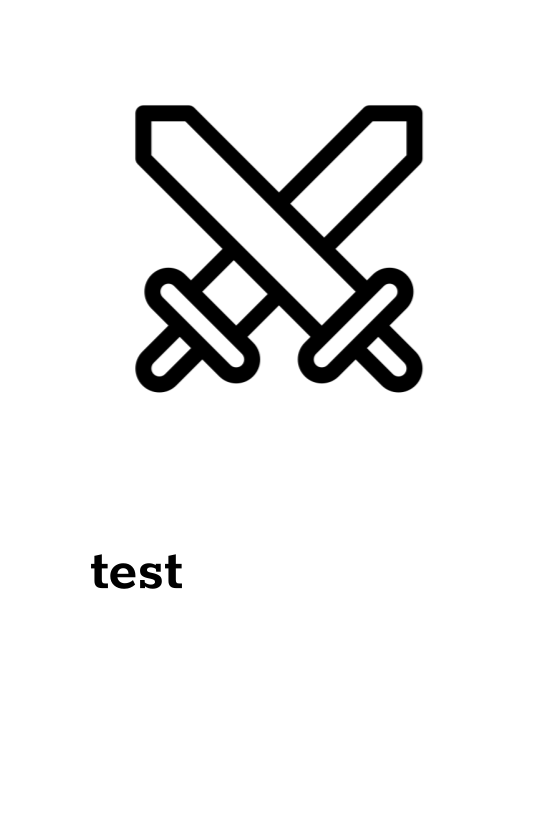
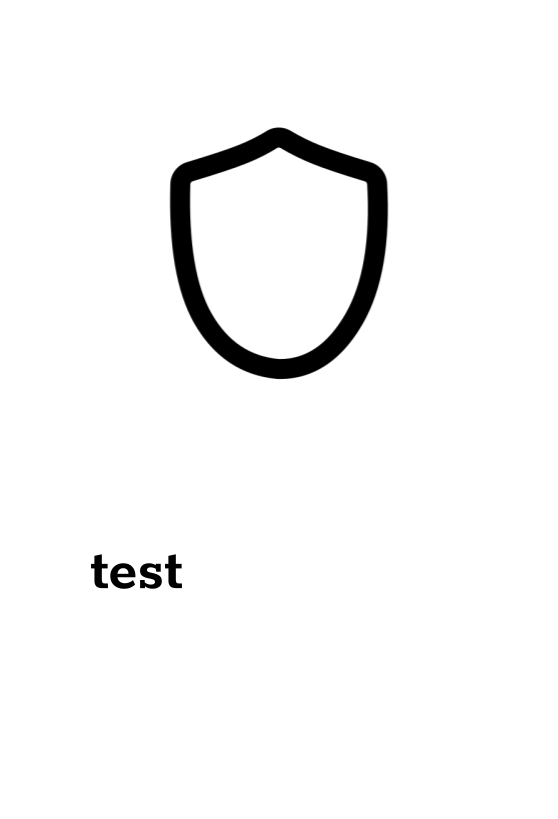
Added dice rendering.

Changed region(s): [[0.2437, 0.1221, 0.7616, 0.4884]]

diff --git a/cardistry.js b/cardistry.js
@@ -1,7 +1,7 @@
 const cvs = require("canvas");
 const fs = require("fs");
 const rnd = require("./randomizer");
-const {createCanvas} = require("canvas");
+const {createCanvas, loadImage} = require("canvas");
 
 class BoundaryRect {
     constructor(x, y, w, h) {
@@ -49,20 +49,48 @@ class BoundaryRect {
         return new BoundaryRect(this.x, this.y + h, this.w, this.h - h);
     }
 
+    cutTopPct(p) {
+        let cut = this.h * p;
+        return new BoundaryRect(this.x, this.y + cut, this.w, this.h - cut);
+    }
+
     cutBottom(h) {
         return new BoundaryRect(this.x, this.y, this.w, this.h - h);
+    }
+
+    cutBottomPct(p) {
+        let cut = this.h * p;
+        return new BoundaryRect(this.x, this.y, this.w, this.h - cut);
     }
 
     cutLeft(w) {
         return new BoundaryRect(this.x + w, this.y, this.w - w, this.h);
     }
 
+    cutLeftPct(p) {
+        let cut = this.w * p;
+        return new BoundaryRect(this.x - cut, this.y, this.w - cut, this.h);
+    }
+
     cutRight(w) {
         return new BoundaryRect(this.x, this.y, this.w - w, this.h);
     }
 
+    cutRightPct(p) {
+        let cut = this.w * p;
+        return new BoundaryRect(this.x, this.y, this.w - cut, this.h);
+    }
+
     cut(l, r, t, b) {
         return new BoundaryRect(this.x + l, this.y + t, this.w - l - r, this.h - t - b);
+    }
+
+    cutPct(lp, lr, lt, lb) {
+        let cutl = this.w * lp;
+        let cutr = this.w * lr;
+        let cutt = this.h * lt;
+        let cutb = this.h * lb;
+        return new BoundaryRect(this.x + cutl, this.y + cutt, this.w - cutl - cutr, this.h - cutt - cutb);
     }
 }
 exports.BoundaryRect = BoundaryRect;
@@ -529,6 +557,39 @@ class GridCard extends Card {
 }
 exports.GridCard = GridCard;
 
+class DieFace extends Card {
+    constructor(width, height, bleed, safe, extra, bgColor, dpi, icons) {
+        super(width, height, bleed, safe, extra, bgColor, dpi);
+
+        this.icons = icons;
+
+        if(this.icons.length == 1) {
+            this.addElement(new ImageBox(this, this.getDrawableBoundRect(), this.bgColor, icons[0], false));
+        } else if(this.icons.length == 2) {
+            this.addElement(new ImageBox(this, this.getDrawableBoundRect().cutPct(0, 0.5, 0, 0.5), this.bgColor, icons[0], false));
+            this.addElement(new ImageBox(this, this.getDrawableBoundRect().cutPct(0.5, 0, 0.5, 0), this.bgColor, icons[1], false));
+        } else if(this.icons.length == 3) {
+            this.addElement(new ImageBox(this, this.getDrawableBoundRect().cutPct(0, 0.5, 0, 0.5), this.bgColor, icons[0], false));
+            this.addElement(new ImageBox(this, this.getDrawableBoundRect().cutPct(0.5, 0, 0, 0.5), this.bgColor, icons[1], false));
+            this.addElement(new ImageBox(this, this.getDrawableBoundRect().cutPct(0.25, 0.25, 0.5, 0), this.bgColor, icons[2], false));
+        } else if(this.icons.length == 4) {
+            this.addElement(new ImageBox(this, this.getDrawableBoundRect().cutPct(0, 0.5, 0, 0.5), this.bgColor, icons[0], false));
+            this.addElement(new ImageBox(this, this.getDrawableBoundRect().cutPct(0.5, 0, 0, 0.5), this.bgColor, icons[1], false));
+            this.addElement(new ImageBox(this, this.getDrawableBoundRect().cutPct(0, 0.5, 0.5, 0), this.bgColor, icons[2], false));
+            this.addElement(new ImageBox(this, this.getDrawableBoundRect().cutPct(0.5, 0, 0.5, 0), this.bgColor, icons[3], false));
+        } else if(this.icons.length == 5) {
+            this.addElement(new ImageBox(this, this.getDrawableBoundRect().cutPct(0, 0.66, 0, 0.66), this.bgColor, icons[0], false));
+            this.addElement(new ImageBox(this, this.getDrawableBoundRect().cutPct(0.66, 0, 0, 0.66), this.bgColor, icons[1], false));
+            this.addElement(new ImageBox(this, this.getDrawableBoundRect().cutPct(0, 0.66, 0.66, 0), this.bgColor, icons[2], false));
+            this.addElement(new ImageBox(this, this.getDrawableBoundRect().cutPct(0.66, 0, 0.66, 0), this.bgColor, icons[3], false));
+            this.addElement(new ImageBox(this, this.getDrawableBoundRect().cutPct(0.33, 0.33, 0.33, 0.33), this.bgColor, icons[4], false));
+        } else {
+            // do nothing
+        }
+    }
+}
+exports.DieFace = DieFace;
+
 class Sheet {
     constructor(cards) {
         this.cards = cards;
@@ -675,3 +736,29 @@ class Showcase extends Sheet {
     }
 }
 exports.Showcase = Showcase;
+
+class ImageManager {
+    constructor() {
+        this.images = new Map();
+        this.promises = [];
+    }
+
+    loadImage(key, file) {
+        let that = this;
+        this.promises.push(new Promise(function(resolve, reject) {
+            loadImage(file).then((img) => {
+                that.images.set(key, img);
+                resolve();
+            });
+        }));
+    }
+
+    get(key) {
+        return this.images.get(key);
+    }
+
+    ready(onReady) {
+        Promise.all(this.promises).then(onReady);
+    }
+}
+exports.ImageManager = ImageManager;

diff --git a/index.js b/index.js
@@ -2,7 +2,7 @@ const cvs = require("canvas");
 const fs = require("fs");
 const rnd = require("./randomizer.js");
 const Cardistry = require('./cardistry.js');
-const {Card, BoundaryRect, GridCard, RotatedTextBox, TextBox} = require("./cardistry");
+const {Card, BoundaryRect, GridCard, RotatedTextBox, TextBox, ImageManager} = require("./cardistry");
 const {loadImage} = require("canvas");
 
 // setup the randomizer
@@ -15,7 +15,18 @@ cvs.registerFont('lib/rokkitt/static/Rokkitt-Bold.ttf', {family: 'Rokkitt Bold'}
 cvs.registerFont('lib/rokkitt/static/Rokkitt-Light.ttf', {family: 'Rokkitt Light'});
 
 // load images
-const attack_img = loadImage('assets/noun-fight-1279715.png');
+const im = new ImageManager();
+im.loadImage('attack', 'assets/noun-fight-1279715.png');
+im.loadImage('fire', 'assets/noun-fire-4798412.png');
+im.loadImage('shield', 'assets/noun-shield-3000252.png');
+im.loadImage('black-die', 'assets/noun-cube-5842799-000000.png');
+im.loadImage('green-die', 'assets/noun-cube-5842799-71D358.png');
+im.loadImage('blue-die', 'assets/noun-cube-5842799-00449F.png');
+im.loadImage('purple-die', 'assets/noun-cube-5842799-C462DD.png');
+im.loadImage('gray-die', 'assets/noun-cube-5842799-D3D3D3.png');
+im.loadImage('red-die', 'assets/noun-cube-5842799-FF001C.png');
+im.loadImage('orange-die', 'assets/noun-cube-5842799-FF824A.png');
+im.loadImage('yellow-die', 'assets/noun-cube-5842799-FFD65B.png');
 
 const card_bleed = 0.125;
 const card_safe = 0.125;
@@ -24,6 +35,8 @@ const card_width = 1.61 + card_bleed * 2;
 const card_extra = 0.05;
 const text_size = (card_height - 0.6) / 10.5;
 const text_margin = text_size * 0.23;
+const d6_width = 0.5;
+const d6_height = 0.5;
 
 class RoadWarriorItemCard extends Cardistry.Card {
     constructor(dpi, bgColor, text, img) {
@@ -53,10 +66,32 @@ class RoadWarriorItemCard extends Cardistry.Card {
     }
 }
 
+class RoadWarriorDie extends Cardistry.Sheet {
+    constructor(faces) {
+        let cards = [];
+        for(const face of faces) {
+            let die = new Cardistry.DieFace(d6_width, d6_height, 0, 0, 0, 'FFD65B', 300, face);
+            die.draw();
+            cards.push(die);
+        }
 
-attack_img.then((img) => {
-    let card = new RoadWarriorItemCard(300, 'FFFFFF', "test", img);
+        super(cards);
+    }
+}
+
+
+im.ready(() => {
+    let card = new RoadWarriorItemCard(300, 'FFFFFF', "test", im.get('shield'));
     card.draw();
     card.exportPNG('test.png');
-});
 
+    let purple_d6 = new RoadWarriorDie([
+        [im.get('shield')],
+        [im.get('shield')],
+        [im.get('shield'), im.get('shield'), im.get('shield'), im.get('shield'), im.get('shield')],
+        [im.get('shield'), im.get('shield'), im.get('shield'), im.get('shield')],
+        [im.get('shield'), im.get('shield'), im.get('shield')],
+        [im.get('attack'), im.get('shield')]
+    ]);
+    purple_d6.exportPNG('test2.png', 3);
+});
